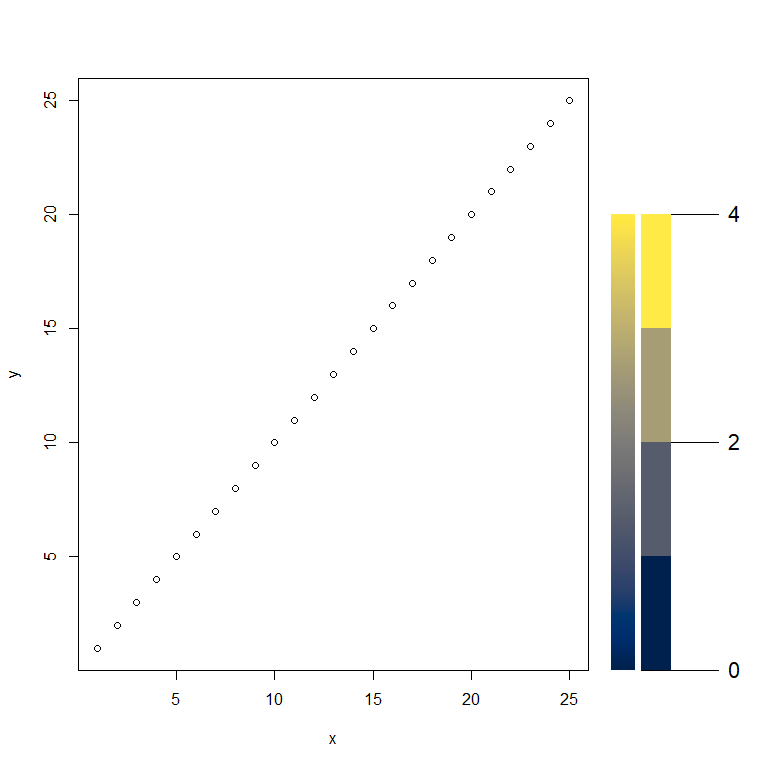
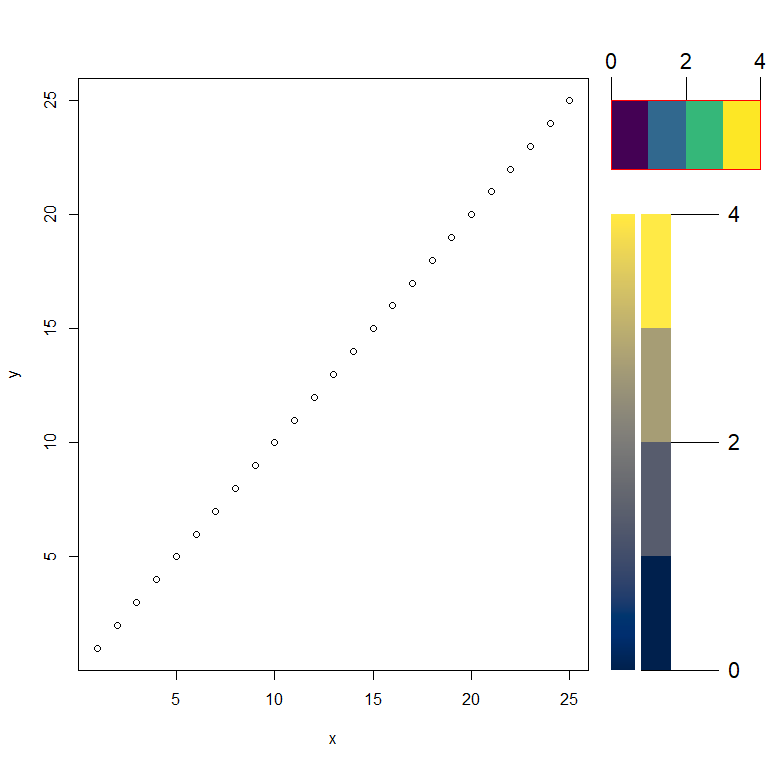
Updated Docs With New Arguments

diff --git a/Docs/Readme.md b/Docs/Readme.md
@@ -12,6 +12,12 @@ that the terra and raster libraries generated.
 
 <b><font size = "3">colors</font></b>: *vector*, series of colors to
 appear on the color bar. <br/> <br/>
+<b><font size = "3">bar_box</font></b>: *boolean*, default *FALSE*.
+Defines whether to draw a border around the color bar. <br/> <br/>
+<b><font size = "3">bar_box_col</font></b>: *char*, default *‘black’*.
+Defines what color to draw the bar box in. <br/> <br/>
+<b><font size = "3">colors</font></b>: *vector*, series of colors to
+appear on the color bar. <br/> <br/>
 <b><font size = "3">xleft</font></b>: *numeric*, default to
 *par(‘usr’)\[1\]*. The left hand coordinate of the color bar.
 Coordinates are in plot values and not paper values (0,1).  
@@ -36,13 +42,23 @@ plot and not paper (0,1) value. <br/> <br/>
 argument would be c(1,5,10). <br/> <br/>
 <b><font size = "3">labels_text</font></b>: *char vector*, default
 *NULL*. The labels to be placed at *labels_at*. Must be the same length
-as *labels_at*. <br/> <br/> <b><font size = "3">xpd</font></b>:
-*boolean*, default *TRUE*. Whether the color bar can exceed the
-coordinates of the plot region. <br/> <br/>
+as *labels_at*. <br/> <br/> <b><font size = "3">labels_side</font></b>:
+*char*, default *‘right’*. Accepts *‘left’* or *‘right’*. Defines
+whether in a vertical bar to draw labels to the left or right of the
+bar. In a horizontal bar *‘right’* draws labels on the bottom and
+*‘left’* draws labels on the top. <br/> <br/>
+<b><font size = "3">labels_srt</font></b>: *numeric*, default 0. Accepts
+range (0,360). Defines what orientation to draw bar labels in. 0 is
+equivalent to regular vertical text. <br/> <br/>
+<b><font size = "3">xpd</font></b>: *boolean*, default *TRUE*. Whether
+the color bar can exceed the coordinates of the plot region. <br/> <br/>
 <b><font size = "3">middle</font></b>: *boolean*, default *FALSE*.
 Whether labels appear in the middle of their color (for categorical
 variables). *FALSE* means they appear at the bottom of the value (unless
-the final value). <br/>
+the final value). <br/> <br/> <b><font size = "3">horizontal</font></b>:
+*boolean*, default *FALSE*. Defines whether to draw bar in a horizontal
+orientation. Default argument of *FALSE* means bar is drawn vertically.
+<br/>
 
 # Function Usage Examples
 
@@ -94,14 +110,14 @@ Custom_Color_Bar(colors      = viridis::cividis(n = n_colors),
 
 ![](Readme_files/figure-gfm/usageMiddle-1.png)<!-- -->
 
-<font size = "3">This shows how to place labels at the middle of colors
-for categorical variables. These values are based on matrix indexing.
-Therefore, if you set a label to be at a non integer value the first
-digit will be what is represented. For example a value of between 2-2.99
-will cause that label to appear at the second color division. Because
-this, along with the categorical example above is just done with the
-rect() function you can place as many color bars as you want. <br/>
-<br/>
+<br/> <br/> <br/> <br/> <font size = "3">This shows how to place labels
+at the middle of colors for categorical variables. These values are
+based on matrix indexing. Therefore, if you set a label to be at a non
+integer value the first digit will be what is represented. For example a
+value of between 2-2.99 will cause that label to appear at the second
+color division. Because this, along with the categorical example above
+is just done with the rect() function you can place as many color bars
+as you want. <br/> <br/>
 
 ``` r
 #-------------------------------------------------------------------------------
@@ -149,8 +165,22 @@ Custom_Color_Bar(colors      = viridis::cividis(n = n_colors),
                  middle      = FALSE, # do not place at middle
                  line_length = 8, # adjust line length to demonstrate
                  labels_at   = c(0,n_colors/2,n_colors),
-                 labels_text = c(0,
-                                 2,4))
+                 labels_text = c(0,2,4))
+
+Custom_Color_Bar(colors      = viridis::viridis(n = n_colors),
+                 xleft       = 0,
+                 ybot        = 22,
+                 xright      = 25,
+                 ytop        = 25,
+                 labels_TF   = TRUE,
+                 horizontal  = TRUE,
+                 middle      = FALSE, # do not place at middle
+                 line_length = 1, # adjust line length to demonstrate
+                 labels_at   = c(0,n_colors/2,n_colors),
+                 labels_text = c(0,2,4),
+                 labels_side = 'left',
+                 bar_box     = TRUE,
+                 bar_box_col = 'red')
 ```
 
 ![](Readme_files/figure-gfm/usageBottom-1.png)<!-- -->
